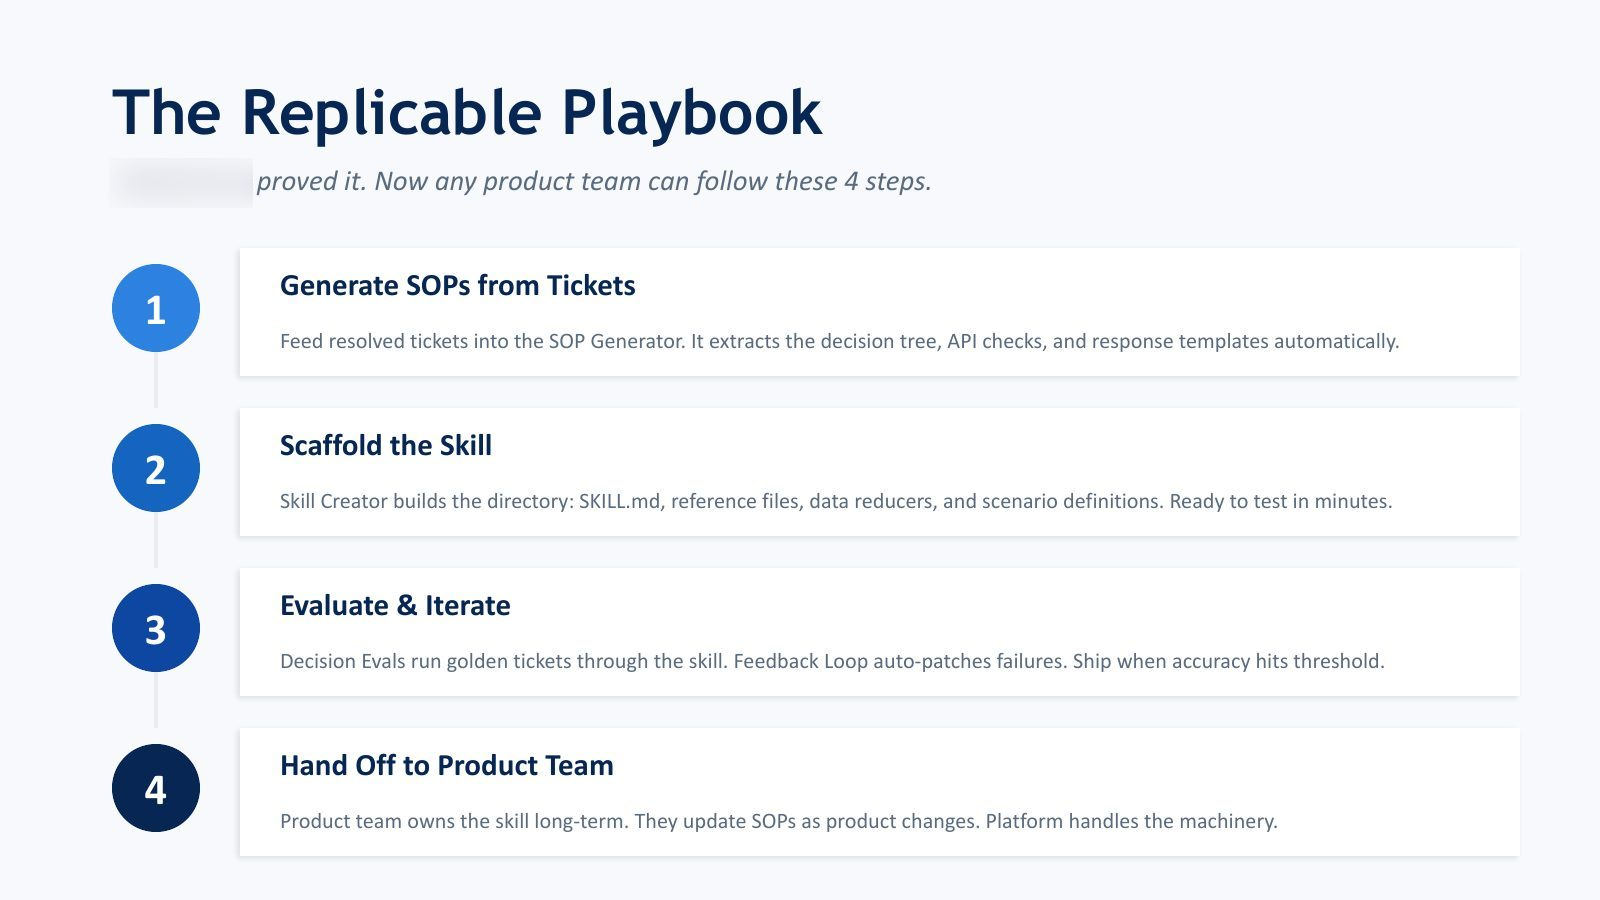
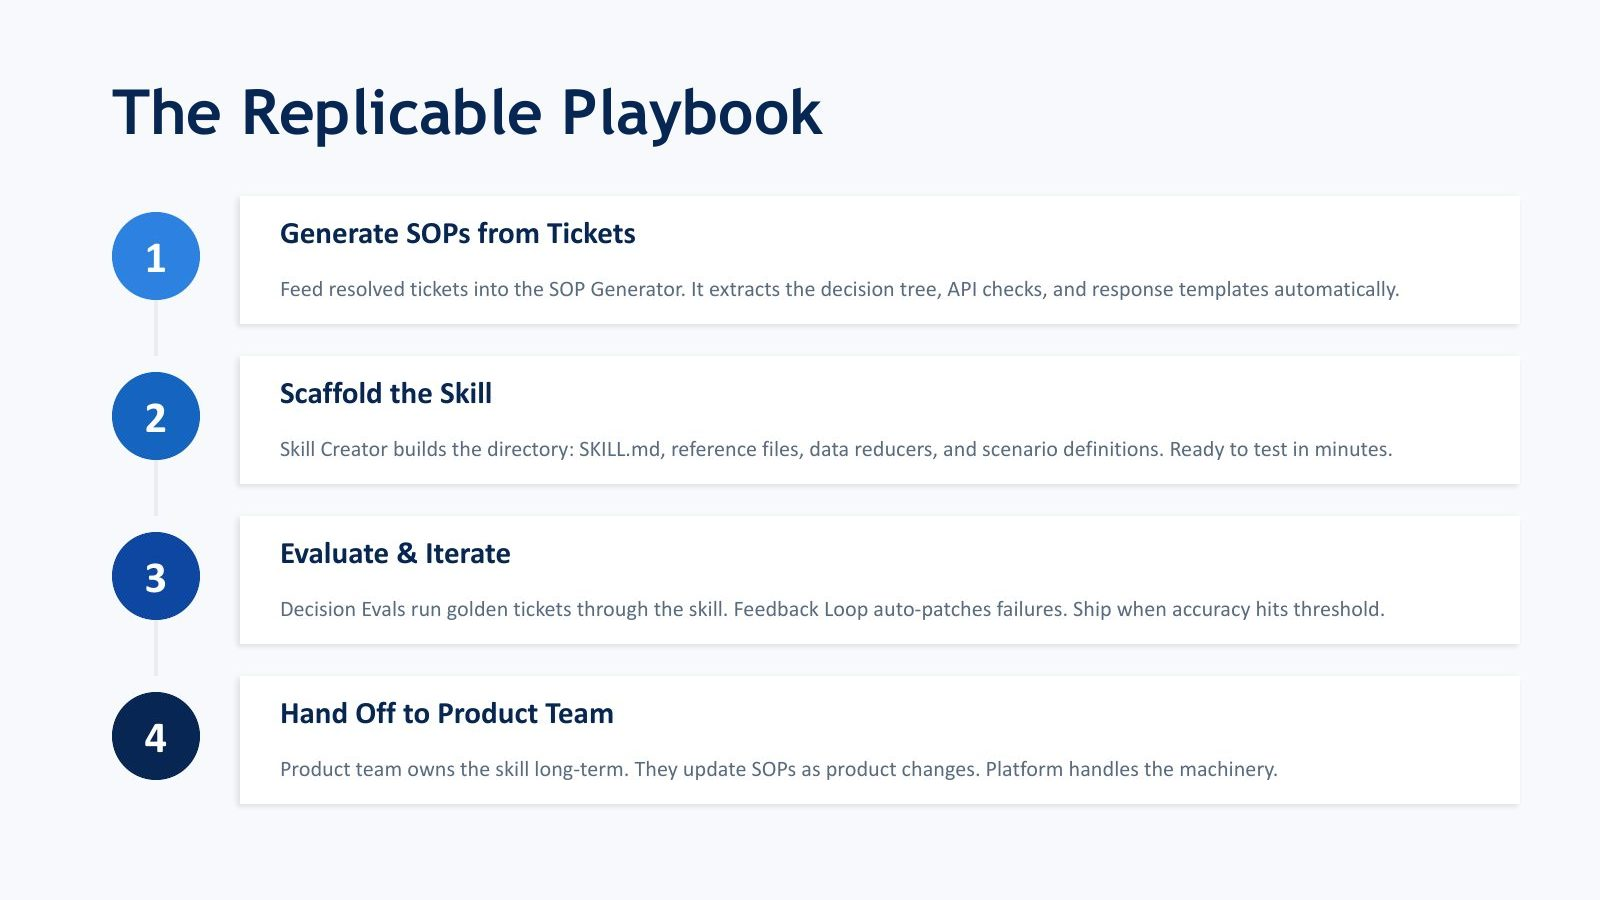
Scaling CX: drop the Owned-by lines and slide 5's subtitle; deck.js --cut-band
KB (go-live checklist): slide 4 loses both "Owned by" lines and its cards
are trimmed; slide 5 loses its subtitle and starts on the steps. deck.js
gains --cut-band <n>:<y0>,<y1> for PDF decks: a full-width band goes and
what's below moves up. The Owned-by swap and the Settlements blur are gone
with the lines they edited.

diff --git a/tools/deck.js b/tools/deck.js
@@ -4,6 +4,7 @@
 //   node tools/deck.js <source.html> content/talks/<slug>/slides.html [--drop 2,3,4] [--cut <regex>]…
 //       [--swap "<regex>=><text>"]… [--blur-image "<n>:<x0>,<y0>,<x1>,<y1>"]…
 //   node tools/deck.js <source.pdf> … --pages 1,3 [--titles "A|B"] [--blur <regex>]… [--swap "<regex>=><text>@<font.ttf>"]…
+//       [--cut-band "<n>:<y0>,<y1>"]…
 // Every edit refuses when it matches nothing. The redaction recipes in use are in CLAUDE.md (Talks).
 //
 // What it does, in order, and it refuses (exit 1) if any step finds nothing to do
@@ -26,6 +27,7 @@ const drop = new Set();
 const cuts = [];
 const blurs = []; // PDF only: words to blur on the rendered pages (KB, 2026-10-03: product names)
 const swaps = []; // both: replace matching text; on a PDF page image the line is repainted in the given font
+const bands = []; // PDF only: remove a horizontal band from a page (KB, 2026-10-03: drop a line, trim a box)
 const blurImages = []; // HTML only: blur a box on a slide's embedded screenshot (KB, 2026-10-03: a colleague's handle)
 for (let i = 0; i < rest.length; i++) {
   if (rest[i] === "--drop") rest[++i].split(",").forEach((n) => drop.add(+n));
@@ -35,6 +37,10 @@ for (let i = 0; i < rest.length; i++) {
     const [pat, rhs] = rest[++i].split("=>"); const [to, font] = (rhs ?? "").split("@");
     if (!pat || to === undefined) die(`--swap needs "<regex>=><text>", got ${rest[i]}`);
     swaps.push({ re: new RegExp(pat, "g"), to, font: font || null });
+  } else if (rest[i] === "--cut-band") { // PDF: "<slide as published>:<y0>,<y1>" fractions of the height; the band goes, what's below moves up
+    const [n, box] = rest[++i].split(":"); const [y0, y1] = box.split(",").map(Number);
+    if (!(y0 >= 0 && y1 > y0 && y1 <= 1)) die(`--cut-band ${rest[i]}: needs 0 <= y0 < y1 <= 1`);
+    bands.push({ n: +n, y0, y1 });
   } else if (rest[i] === "--blur-image") { // HTML: "<slide as published>:<x0>,<y0>,<x1>,<y1>" as fractions of the slide's first image
     const [n, box] = rest[++i].split(":"); const [x0, y0, x1, y1] = box.split(",").map(Number);
     blurImages.push({ n: +n, rect: { x0, y0, x1, y1 } });
@@ -72,7 +78,8 @@ if (/\.pdf$/i.test(src)) {
     if (!title) die(`page ${p} has no text to title it; pass --titles`);
     return { img: `${name}.jpg`, title, page: p };
   });
-  if (blurs.length || swaps.length) {
+  for (const b of bands) if (!(b.n >= 1 && b.n <= slides.length)) die(`--cut-band ${b.n}: the deck has ${slides.length} slides`);
+  if (blurs.length || swaps.length || bands.length) {
     const hits = blurs.map(() => 0), shits = swaps.map(() => 0), jobs = [];
     for (const s of slides) {
       const xml = execFileSync("pdftotext", ["-bbox-layout", "-f", s.page, "-l", s.page, src, "-"].map(String)).toString();
@@ -103,6 +110,7 @@ if (/\.pdf$/i.test(src)) {
                        text: text.replace(new RegExp(sw.re.source, "g"), sw.to), orig: text, font: sw.font });
         });
       }
+      for (const b of bands) if (b.n === slides.indexOf(s) + 1) rects.push({ band: true, y0: b.y0, y1: b.y1 });
       if (rects.length) jobs.push({ file: path.join(dir, s.img), rects });
       for (const sw of swaps) s.title = s.title.replace(new RegExp(sw.re.source, "g"), sw.to);
       if (rects.length) s.title = blurs.reduce((t, re) => t.replace(new RegExp(re.source, "gi"), "…"), s.title);

diff --git a/CLAUDE.md b/CLAUDE.md
@@ -180,14 +180,19 @@ slides carry the talk, so there are no long write-ups.
     scrambled cmap and drops letters. (HTML: `--swap "<regex>=><text>"` is a plain text replace.)
   - `--blur-image "<n>:<x0>,<y0>,<x1>,<y1>"` (HTML): blurs a box, in fractions, on published slide
     n's embedded screenshot.
+  - `--cut-band "<n>:<y0>,<y1>"` (PDF): removes a full-width band (fractions of the height) from
+    published slide n; everything below moves up. It drops a line and trims the boxes around it in
+    one cut, as long as the band holds only that line and plain fill. Take y from
+    `pdftotext -bbox-layout` and look at the result.
   - Names: the support AI is called **Agentic CX** on the site, never its internal name (KB,
     2026-10-03: "remove the word … from everywhere"). Product names are blurred; a colleague's
     GitHub handle is blurred; other teams' agent names are replaced by a generic chip.
 - **The two rebuild commands, exactly** (`I` = "$HOME/Library/Mobile Documents/com~apple~CloudDocs/On the Stage/My Creations", `T` = /System/Library/Fonts/Supplemental):
   - ai-os: `node tools/deck.js "$I/slash-deck-magicball-unicorn-summit.html" content/talks/ai-os/slides.html --drop 2,3,4,17 --cut '<div class="num"><div class="v">50\+</div><div class="l">agents created across teams</div></div>' --swap '<span class="chip">Blash</span>[\s\S]*?<span class="chip wide">Security Reviewer</span>=><span class="chip wide">+ agents built by other teams</span>' --blur-image '6:0.126,0.050,0.210,0.070'`
     (2–4 were internal chat screenshots, 17 and the "50+" were dashboard-only figures; slide 6 is a real PR, its merger's handle blurred).
-  - scaling-cx: `node tools/deck.js "$I/<the skills-journey PDF, see me.json>" content/talks/scaling-cx/slides.html --pages 1,3,4,5,6 --titles "Agentic CX: The AI Journey|The Evolution — 5 Phases, 1 Destination|Skills Architecture — How It Works|Horizontal vs Vertical Skills|The Replicable Playbook" --blur "Settlements? (On-Hold|Status|Config|Recon)" --blur "Refund Processing" --blur "Payments" --blur "Settlements" --swap "<internal name>: The AI Journey=>Agentic CX: The AI Journey@$T/Trebuchet MS Bold.ttf" --swap "Owned by: <internal name> Platform Team=>Owned by: Agentic CX Platform Team@$T/Trebuchet MS Bold Italic.ttf"`
-    (the internal name is the PDF's own word; it is kept out of this file on purpose. Read it from the PDF's title page.)
+  - scaling-cx: `node tools/deck.js "$I/<the skills-journey PDF, see me.json>" content/talks/scaling-cx/slides.html --pages 1,3,4,5,6 --titles "Agentic CX: The AI Journey|The Evolution — 5 Phases, 1 Destination|Skills Architecture — How It Works|Horizontal vs Vertical Skills|The Replicable Playbook" --blur "Settlements? (On-Hold|Status|Config|Recon)" --blur "Refund Processing" --blur "Payments" --swap "<internal name>: The AI Journey=>Agentic CX: The AI Journey@$T/Trebuchet MS Bold.ttf" --cut-band "4:0.850,0.931" --cut-band "5:0.172,0.230"`
+    (the internal name is the PDF's own word; it is kept out of this file on purpose. Read it from the PDF's title page.
+    The bands: slide 4 loses both "Owned by" lines and its cards end after the last row; slide 5 loses its subtitle and goes straight to the steps.)
 - **Talks, and the About page, are the exceptions to "never name the employer"** (KB, 2026-09-26; About since 2026-10-02, "fix it" when asked whether it should match the talks):
   what was said on stage is already public, so the logo and product names
   stay. Speaker notes, internal screenshots and dashboard-only numbers never
